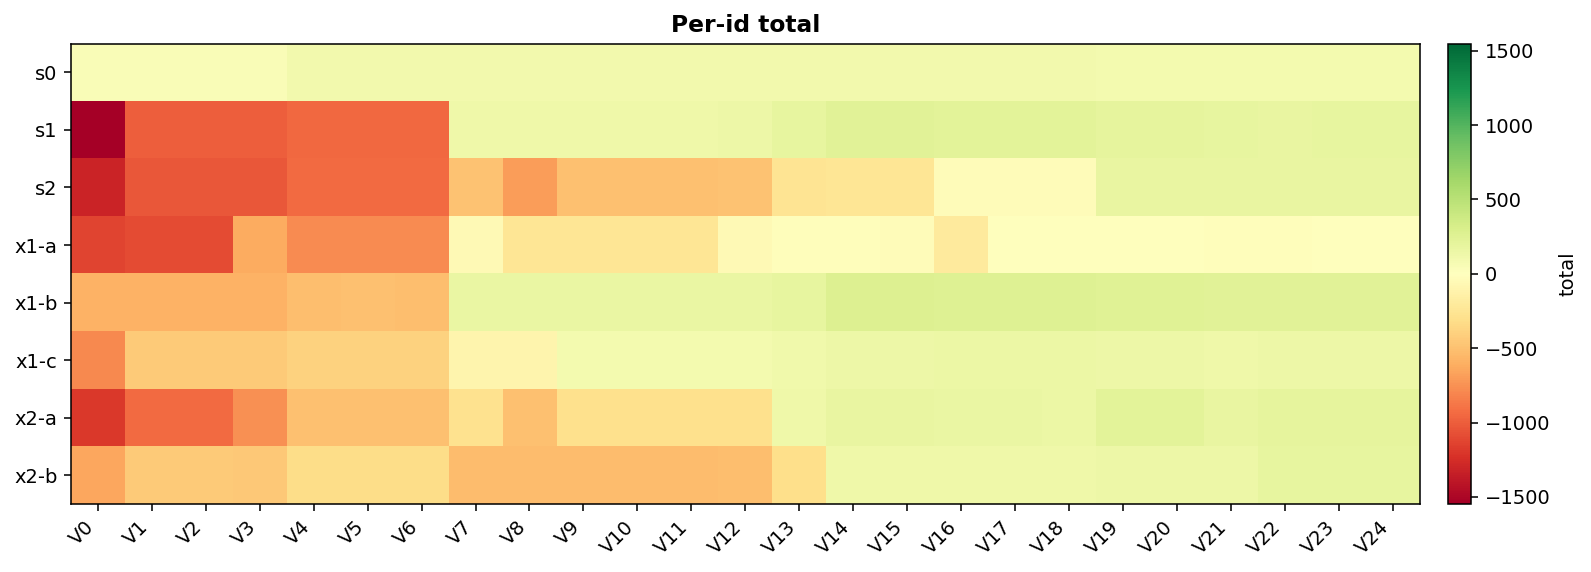
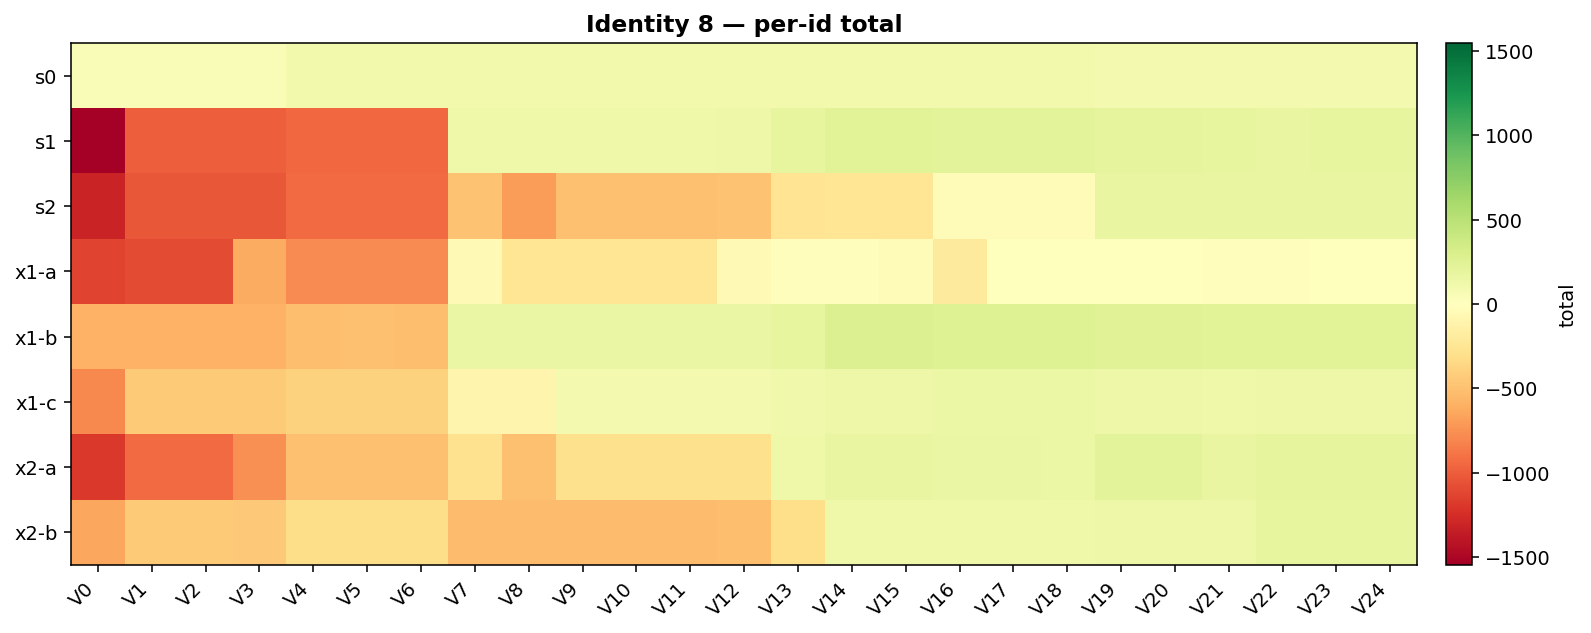
some final plots for the slides.

diff --git a/tools/plot_ablation.py b/tools/plot_ablation.py
@@ -37,6 +37,8 @@ ABLATION = REPO / "runs" / "ablation"
 NOTES = REPO / "notes"
 MANIFEST = REPO / "scripts" / "versions.csv"
 IDS = ["s0", "s1", "s2", "x1-a", "x1-b", "x1-c", "x2-a", "x2-b"]
+# Generated named ids. Own heatmap: s1's −1500 compresses these on the 8-row plot.
+IDS_X = ["x1-a", "x1-b", "x1-c", "x2-a", "x2-b"]
 # tab10, stable per id so the delta stack and the trajectories match.
 ID_COLORS = {
     "s0": "#4e79a7",
@@ -264,17 +266,23 @@ def plot_timeline(rows: list[dict]) -> None:
     save(fig, "ablation-timeline.png")
 
 
-def plot_heatmap(rows: list[dict]) -> None:
-    mat = np.full((len(IDS), len(rows)), np.nan)
+def plot_heatmap(
+    rows: list[dict],
+    ids: list[str] | None = None,
+    name: str = "ablation-heatmap.png",
+    title: str = "Identity 8 — per-id total",
+) -> None:
+    ids = ids or IDS
+    mat = np.full((len(ids), len(rows)), np.nan)
     for j, r in enumerate(rows):
         per = r["_per"]
-        for i, sid in enumerate(IDS):
+        for i, sid in enumerate(ids):
             if sid in per:
                 mat[i, j] = fget(per[sid], "Total")
 
     finite = mat[np.isfinite(mat)]
     vmax = max(abs(finite.min()), abs(finite.max()), 1.0) if finite.size else 1.0
-    fig, ax = plt.subplots(figsize=(11.5, 4.2))
+    fig, ax = plt.subplots(figsize=(11.5, 2.4 + 0.28 * len(ids)))
     im = ax.imshow(
         mat,
         aspect="auto",
@@ -283,16 +291,140 @@ def plot_heatmap(rows: list[dict]) -> None:
         vmax=vmax,
         interpolation="nearest",
     )
-    ax.set_yticks(np.arange(len(IDS)))
-    ax.set_yticklabels(IDS)
+    ax.set_yticks(np.arange(len(ids)))
+    ax.set_yticklabels(ids)
     ax.set_xticks(np.arange(len(rows)))
     ax.set_xticklabels([r["version"] for r in rows], rotation=45, ha="right")
-    ax.set_title("Per-id total")
+    ax.set_title(title)
     ax.grid(False)
     cb = fig.colorbar(im, ax=ax, fraction=0.03, pad=0.02)
     cb.set_label("total")
     fig.tight_layout()
-    save(fig, "ablation-heatmap.png")
+    save(fig, name)
+
+
+def live_row(rows: list[dict]) -> dict | None:
+    for r in rows:
+        if r.get("working_tree") or str(r.get("commit_short") or "") == "WORKING":
+            return r
+    for r in rows:
+        if str(r.get("version") or "") == "V24":
+            return r
+    return rows[-1] if rows else None
+
+
+def plot_live_results(rows: list[dict]) -> None:
+    """Identity 8 for this brain only — not the version ladder."""
+    live = live_row(rows)
+    if live is None:
+        return
+    per = live["_per"]
+    recs = []
+    for sid in IDS:
+        rec = per.get(sid)
+        if not rec:
+            continue
+        recs.append(
+            {
+                "id": sid,
+                "total": fget(rec, "Total"),
+                "mission": fget(rec, "Mission"),
+                "aware": fget(rec, "Awareness"),
+                "comms": fget(rec, "Comms"),
+                "kills": iget(rec, "Kills"),
+                "hostiles": iget(rec, "HostilesTotal"),
+                "breaches": iget(rec, "Breaches"),
+                "civ": iget(rec, "Civilians"),
+            }
+        )
+    recs.sort(key=lambda d: d["total"], reverse=True)
+    n = len(recs)
+    if n == 0:
+        return
+
+    totals = [d["total"] for d in recs]
+    mean = round1(sum(totals) / n)
+    labels = [d["id"] for d in recs]
+    colors = []
+    for d in recs:
+        if d["breaches"] > 0:
+            colors.append(COL_BREACH)
+        elif d["civ"] > 0:
+            colors.append("#b45309")
+        else:
+            colors.append(ID_COLORS.get(d["id"], COL_OK))
+
+    fig, (ax, axb) = plt.subplots(
+        2, 1, figsize=(11.5, 7.0), height_ratios=[1.15, 1.0], sharex=False
+    )
+    y = np.arange(n)
+    ax.barh(y, totals, color=colors, height=0.72, zorder=3)
+    ax.axvline(0.0, color="#94a3b8", lw=0.8, zorder=1)
+    ax.axvline(mean, color=COL_MEAN, lw=1.2, ls="--", zorder=2, label=f"mean {mean:.1f}")
+    ax.set_yticks(y)
+    ax.set_yticklabels(labels)
+    ax.invert_yaxis()
+    ax.set_xlabel("total")
+    ax.set_title(
+        f"Live brain — identity 8   min {min(totals):.1f} · mean {mean:.1f} · max {max(totals):.1f} · 0 breaches"
+    )
+    for i, d in enumerate(recs):
+        tag = f"{d['total']:.1f}   {d['kills']}/{d['hostiles']}"
+        if d["civ"]:
+            tag += f"   {d['civ']} civ"
+        x = d["total"]
+        ax.text(
+            x + (4 if x >= 0 else -4),
+            i,
+            tag,
+            va="center",
+            ha="left" if x >= 0 else "right",
+            fontsize=8.5,
+            color="#334155",
+        )
+    ax.legend(loc="lower right", framealpha=0.95)
+    ax.set_xlim(min(totals) - 40, max(totals) + 55)
+
+    # Same order: what the total is made of.
+    mission = np.array([d["mission"] for d in recs])
+    aware = np.array([d["aware"] for d in recs])
+    comms = np.array([d["comms"] for d in recs])
+    # Same order: grouped terms so a negative mission (x1-a) is readable.
+    w = 0.24
+    axb.barh(y - w, mission, height=w, color="#1d4ed8", label="mission", zorder=3)
+    axb.barh(y, aware, height=w, color="#0d9488", label="awareness", zorder=3)
+    axb.barh(y + w, comms, height=w, color="#64748b", label="comms", zorder=3)
+    axb.axvline(0.0, color="#94a3b8", lw=0.8, zorder=1)
+    axb.set_yticks(y)
+    axb.set_yticklabels(labels)
+    axb.invert_yaxis()
+    axb.set_xlabel("score term")
+    axb.set_title("Same eight — mission / awareness / comms")
+    axb.legend(loc="lower right", framealpha=0.95, ncol=3)
+    fig.tight_layout()
+    save(fig, "live-results.png")
+
+    # Named extras, not in the eight. Totals from RESULTS.md (canary/fa56 D75, s3 D76).
+    extras = [
+        ("s3", 172.8, "6/6", "hardening, D76"),
+        ("canary", 87.1, "3/3", "x1-06b926af…  wasted 0"),
+        ("fa56", 83.2, "3/3", "x2-fa56ef…"),
+    ]
+    fig2, ax2 = plt.subplots(figsize=(11.5, 3.2))
+    ye = np.arange(len(extras))
+    vals = [e[1] for e in extras]
+    ax2.barh(ye, vals, color=["#15803d", "#4e79a7", "#b07aa1"], height=0.55, zorder=3)
+    ax2.axvline(0.0, color="#94a3b8", lw=0.8)
+    ax2.set_yticks(ye)
+    ax2.set_yticklabels([e[0] for e in extras])
+    ax2.invert_yaxis()
+    ax2.set_xlabel("total")
+    ax2.set_title("Live brain — named extras (not in the identity eight)")
+    for i, (name, total, kills, note) in enumerate(extras):
+        ax2.text(total + 3, i, f"{total:.1f}   {kills}   {note}", va="center", fontsize=8.5, color="#334155")
+    ax2.set_xlim(0, max(vals) + 80)
+    fig2.tight_layout()
+    save(fig2, "live-results-extras.png")
 
 
 def plot_breaches(rows: list[dict]) -> None:
@@ -487,10 +619,14 @@ def write_summary_md(rows: list[dict]) -> None:
         "stack height is Δmean), `ablation-waterfall.png` (same Δmean as bars).",
         "`ablation-timeline.png` is the same floor/mean/max on **commit time**",
         "(V23/V24 diamonds are sweep times, not git).",
+        "`ablation-heatmap-x.png` is x1/x2 only — own scale, because s1's",
+        "−1500 flattens those rows on the eight-id heatmap.",
         "",
         "![floor / mean / max](ablation-ladder.png)",
         "",
         "![per-id totals](ablation-heatmap.png)",
+        "",
+        "![generated x1/x2 totals](ablation-heatmap-x.png)",
         "",
         "![kills / breaches / civilians](ablation-mission.png)",
         "",
@@ -503,6 +639,10 @@ def write_summary_md(rows: list[dict]) -> None:
         "![mean waterfall](ablation-waterfall.png)",
         "",
         "![score vs commit time](ablation-timeline.png)",
+        "",
+        "![live brain identity 8](live-results.png)",
+        "",
+        "![live brain named extras](live-results-extras.png)",
         "",
         "| ver | commit | change | min | mean | max | worst |",
         "| --- | --- | --- | ---: | ---: | ---: | --- |",
@@ -577,12 +717,19 @@ def main() -> int:
     style()
     plot_ladder(rows)
     plot_heatmap(rows)
+    plot_heatmap(
+        rows,
+        ids=IDS_X,
+        name="ablation-heatmap-x.png",
+        title="Generated x1 / x2 — per-id total (own colour scale)",
+    )
     plot_breaches(rows)
     plot_floor(rows)
     plot_trajectories(rows)
     plot_deltas(rows)
     plot_mean_waterfall(rows)
     plot_timeline(rows)
+    plot_live_results(rows)
     write_summary_md(rows)
     if args.update_csv:
         update_csv(rows)

diff --git a/RESULTS.md b/RESULTS.md
@@ -38,6 +38,8 @@ are `notes/GAPS.md`.
 **min −7.7 · mean 152.3 · max +237.6.** Breaches on this set: **0.**
 Detection is `n/a` / 0: `declare_identity` is never called.
 
+![live brain identity 8](notes/live-results.png)
+
 Hard generated ids (not in the eight): canary
 `x1-06b926af3deab4600494418d7ece5944` **3/3 +87.1**, wasted 0; fa56
 `x2-fa56ef171718281fef54383d2dba36d6` **3/3 +83.2**. D75 exists for the
@@ -51,6 +53,8 @@ s3 was already +192.2 6/6; this is not a rescue. Hopped reports are still
 trusted. Identity eight is a wash (floor −7.7 → −7.9). Three fresh x3:
 +54.4 (3/3, 1 ground waste — F2, not impersonation), +127.1 4/4,
 +198.6 3/3.
+
+![live brain named extras](notes/live-results-extras.png)
 
 V10 on the same eight was min **−524.6** (x2-b 0/3, three breaches),
 mean **−136.4**. The floor moved off breaches and onto x1-a's civilian
@@ -107,6 +111,8 @@ older table; the rest of V0–V10 matched.
 ![floor / mean / max](notes/ablation-ladder.png)
 
 ![per-id totals](notes/ablation-heatmap.png)
+
+![generated x1/x2 totals (own scale)](notes/ablation-heatmap-x.png)
 
 ![kills / breaches / civilians](notes/ablation-mission.png)
 
@@ -255,7 +261,8 @@ V10's floor (x2-b −524.6, 0/3, three × −200) is closed.
 figures. Attribution (where points go) is `ablation-ids.png` (each id
 across versions), `ablation-delta.png` (each id's share of Δmean),
 `ablation-waterfall.png` (Δmean as bars), `ablation-timeline.png`
-(same scores vs commit time). `notes/workflow.md` is
+(same scores vs commit time), `ablation-heatmap-x.png` (x1/x2 only,
+own colour scale). `notes/workflow.md` is
 the test loop. `notes/GAPS.md` is the unfinished list.
 `notes/sense-sample.json` is generated-id `sense_radius` (mean 76.1 m,
 SD 15.9); Cover already uses boot, not this mean.

diff --git a/notes/ablation-summary.md b/notes/ablation-summary.md
@@ -14,10 +14,14 @@ Attribution: `ablation-ids.png` (where each id sits),
 stack height is Δmean), `ablation-waterfall.png` (same Δmean as bars).
 `ablation-timeline.png` is the same floor/mean/max on **commit time**
 (V23/V24 diamonds are sweep times, not git).
+`ablation-heatmap-x.png` is x1/x2 only — own scale, because s1's
+−1500 flattens those rows on the eight-id heatmap.
 
 ![floor / mean / max](ablation-ladder.png)
 
 ![per-id totals](ablation-heatmap.png)
+
+![generated x1/x2 totals](ablation-heatmap-x.png)
 
 ![kills / breaches / civilians](ablation-mission.png)
 
@@ -30,6 +34,10 @@ stack height is Δmean), `ablation-waterfall.png` (same Δmean as bars).
 ![mean waterfall](ablation-waterfall.png)
 
 ![score vs commit time](ablation-timeline.png)
+
+![live brain identity 8](live-results.png)
+
+![live brain named extras](live-results-extras.png)
 
 | ver | commit | change | min | mean | max | worst |
 | --- | --- | --- | ---: | ---: | ---: | --- |

diff --git a/notes/workflow.md b/notes/workflow.md
@@ -129,5 +129,7 @@ What we look for, concretely:
   are the attribution figures. Delta stack height is **Δmean**, not the
   sum of eight totals. `ablation-timeline.png` is the ladder on git
   commit time (V1–V14 is one day; V23/V24 diamonds are sweep times).
+  `ablation-heatmap-x.png` is the generated x1/x2 rows on their own
+  colour scale (s1’s −1500 flattens them on the eight-id heatmap).
   `orbit-cover-tradeoff.png` is a D70 plant at
   H=25; live picket is 20 m (D72).
